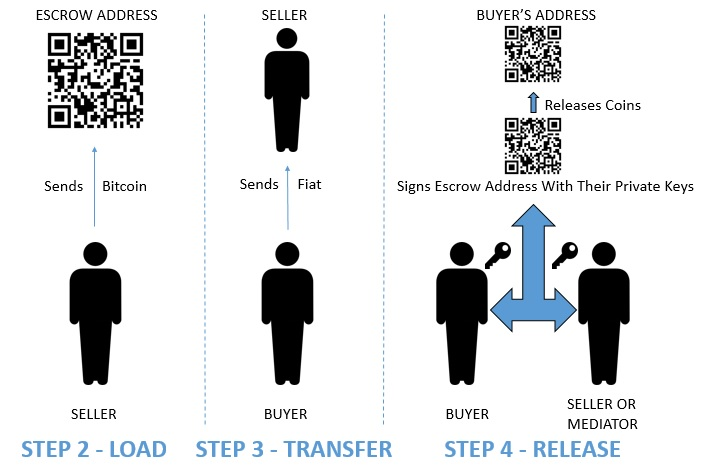
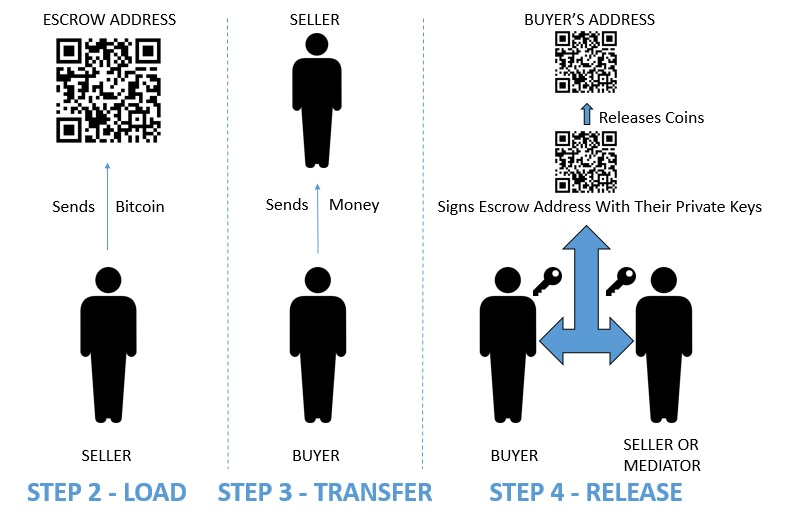
Minor updates

diff --git a/index.html b/index.html
@@ -690,7 +690,7 @@
 						<p>2. To confirm the correctness, the redeem script can be <a href="#verify">verified here</a>.</P>
 						<p>3. Once the redeem script is verified, the seller can send the Bitcoins to the generated escrow address. </p>
 						<p>4. Once the coins are received into the escrow address, it means the coins are locked into the escrow (meaning, it cannot be released without any of the 2 participants signing the transaction). To confirm if the coins are received in the escrow address, simply check the balance in any <a href="https://www.blockchain.com/en/explorer" target="_blank">Blockchain Explorer</a>. </p>
-						<p>5. Now that the coins are locked, the buyer can transfer the fiat currency and share the details of the same to the mediator and the seller. The seller confirms the completion of the fiat transfer.</p>
+						<p>5. Now that the coins are locked, the buyer can transfer the money and share the details of the same to the mediator and the seller. The seller confirms the completion of the money transfer.</p>
 						<p>6. The mediator then initiates the unsigned raw transaction using <a href="#newTransaction"> the Transaction tab here</a> by loading the redeem script, adding the network fee and entering the Bitcoin address where the buyer wishes to receive the coins. The mediator then shares the unsigned raw transaction to the buyer.</p>
 						<p>7. The buyer signs the raw transaction using the <a href="#sign"> sign tab</a> with his/her private key. This generates a new 1st signed raw transaction. The buyer shares the 1st signed raw transaction with the seller/mediator for their signature. Now either the seller or the mediator can sign the 1st signed raw transaction by repeating step 7. This will generate the 2nd signed raw transaction. </p>
 						<p>8. The 2nd signed raw transaction can then be broadcast to the main network using <a href="#broadcast">Broadcast tab</a> which will generate a new Transaction ID (TX ID). You can use <a href="https://www.blockchain.com/en/explorer" target="_blank">Blockchain Explorer</a> to check the status of the Transaction. This confirms the completion of the escrow transaction</p>
